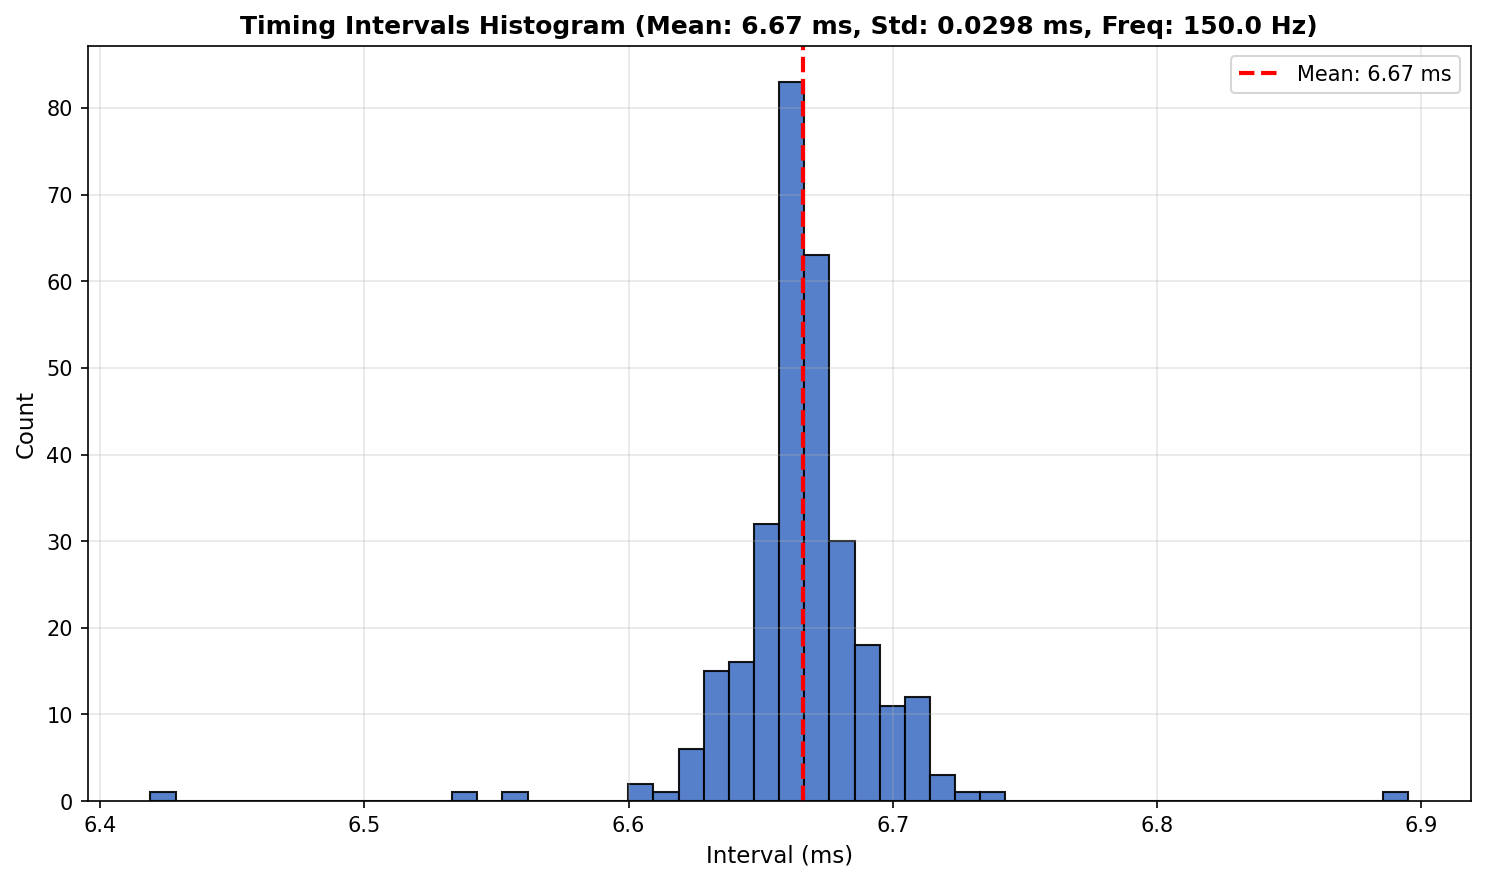
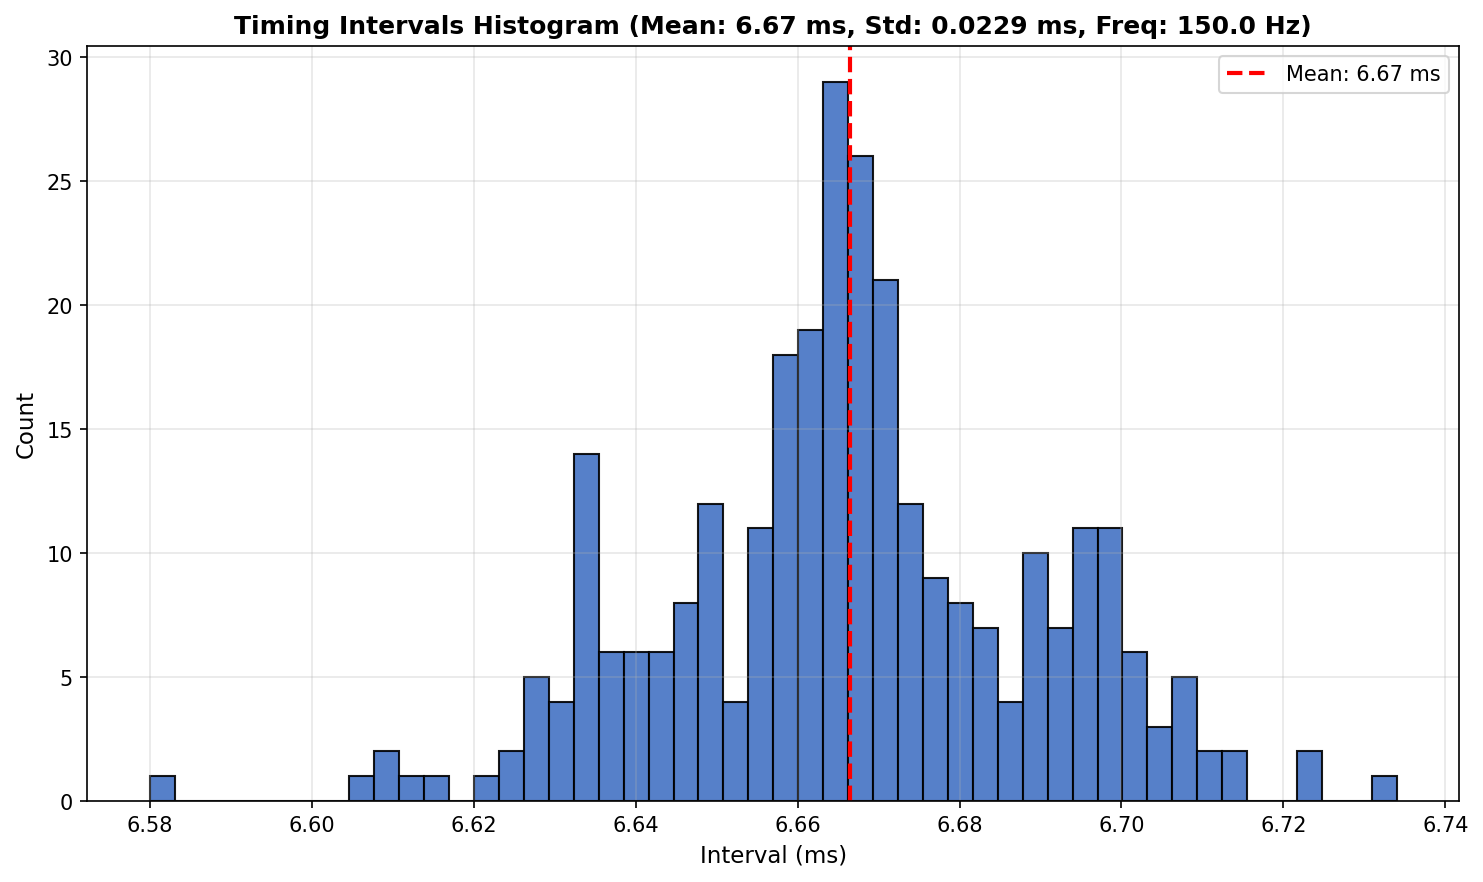
refactor: Updated timing analysis.

diff --git a/plot_timing_histograms.py b/plot_timing_histograms.py
@@ -131,17 +131,17 @@ def process_csv_file(filepath, remove_outliers_flag=False):
             parts = line.strip().split(',')
             if parts:
                 try:
-                    # Timestamp is in microseconds
-                    timestamp_us = int(parts[0])
-                    timestamps.append(timestamp_us)
+                    # Timestamp is in nanoseconds in first column
+                    timestamp_ns = int(parts[0])
+                    timestamps.append(timestamp_ns)
                 except (ValueError, IndexError):
                     continue
     
     timestamps = np.array(timestamps)
     
     # Calculate intervals in milliseconds
-    intervals_us = np.diff(timestamps)
-    intervals_ms = intervals_us / 1000.0
+    intervals_ns = np.diff(timestamps)
+    intervals_ms = intervals_ns / 1e6
     
     # Apply outlier rejection if requested
     if remove_outliers_flag:
